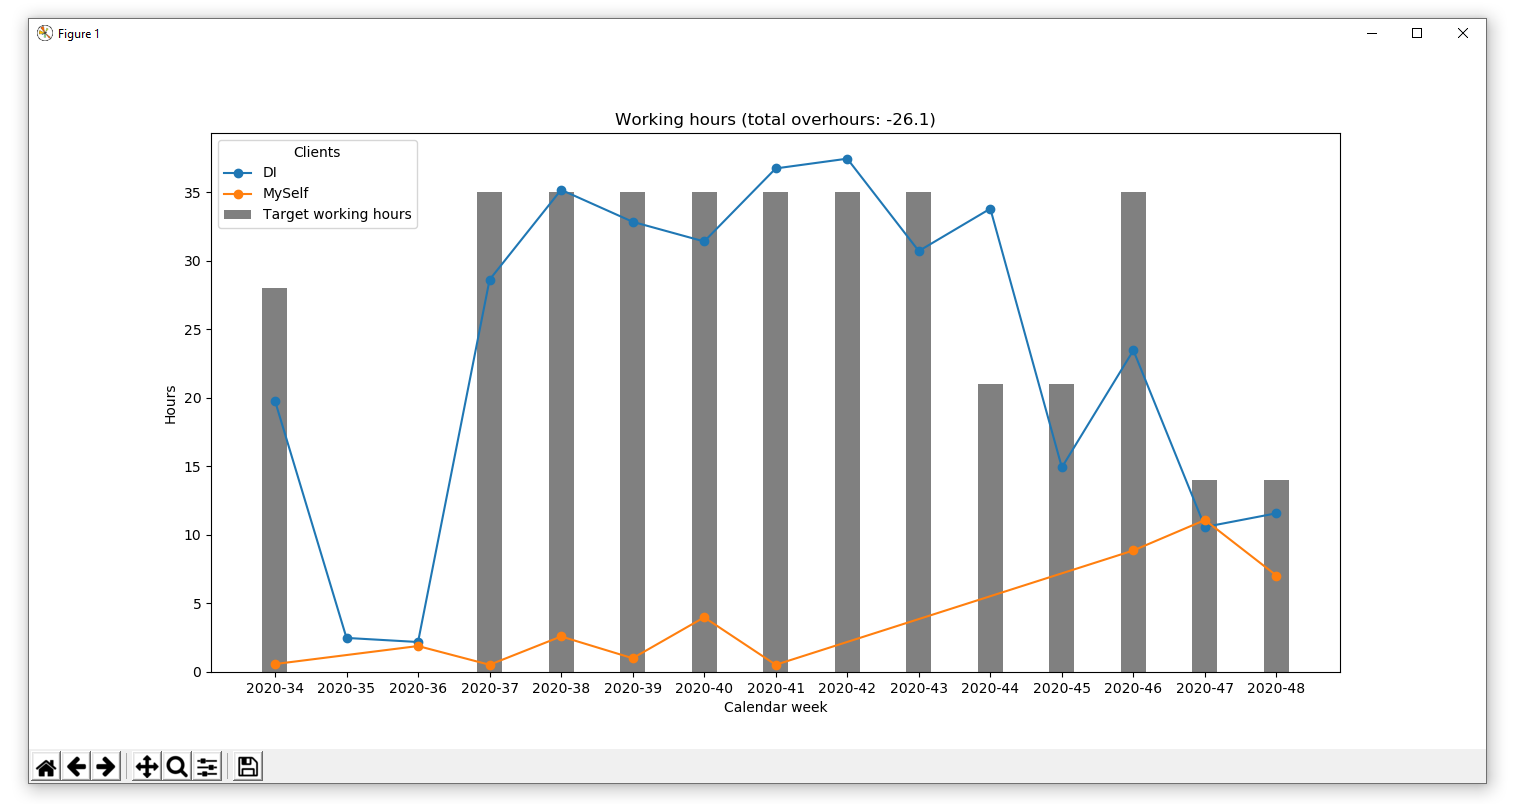
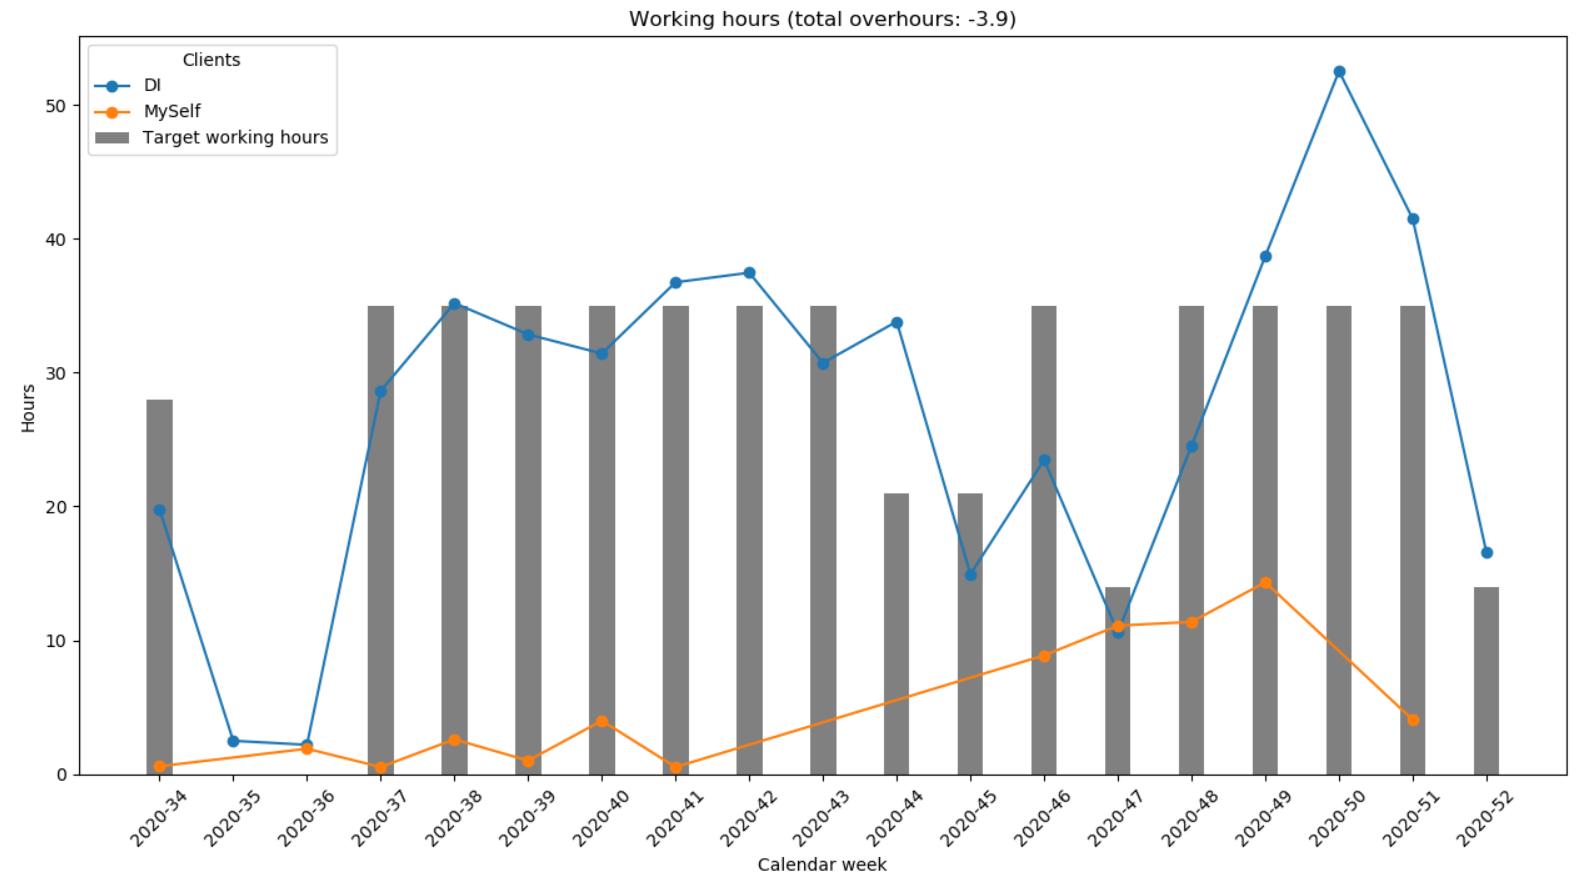
modified Read me

diff --git a/toggl_dashboard.py b/toggl_dashboard.py
@@ -106,6 +106,7 @@ over_hours =round((worked_hours - target_hours),1)
 
 ax.set(xlabel='Calendar week', ylabel='Hours',
        title=f'Working hours (total overhours: {over_hours})')
-ax.xticks(rotation=45)
+
 ax.legend(title="Clients")
+plt.xticks(rotation=45)
 plt.show()

diff --git a/README.md b/README.md
@@ -1,13 +1,12 @@
-# Working hours analysis with Toggl, Python and Grafana
+# Working hours analysis with Toggl and Python
 
 > Collects Toggl time tracking events and uses them to analyse the time you are working for different projects and clients
 
-Since I am using Toggl Track (https://toggl.com/track/) for tracking the time I am working on privat and work related projects, the time records became much more accurate, what
+Since I am using Toggl Track (https://toggl.com/track/) for tracking the time I am working on private and work related projects, the time records became much more accurate, what
 helps me to evaluate my own work and productivity.
 
-To perform analyses and create customized visualisations with python and Grafana, I used the Toggl API to collect the data. For calculating
-the target hours I have to work each week and month I stored the information to my own vacation days in config.py and pulled the data to puplic
-holidays from suitable web pages.
+To perform analyses and create customized visualisations with Python and Matplotlib, the script collects the tracked working hours via Toggl API. To calculate the target working hours for each week and month, its needed to know, which day is a working day.
+Therefor the information about vacation days is stored in config.py and puplic holidays get pulled from suitable web pages.
 
 
-## Toggl API
+<img src=".\img\matplotlib.PNG" width="1000">
